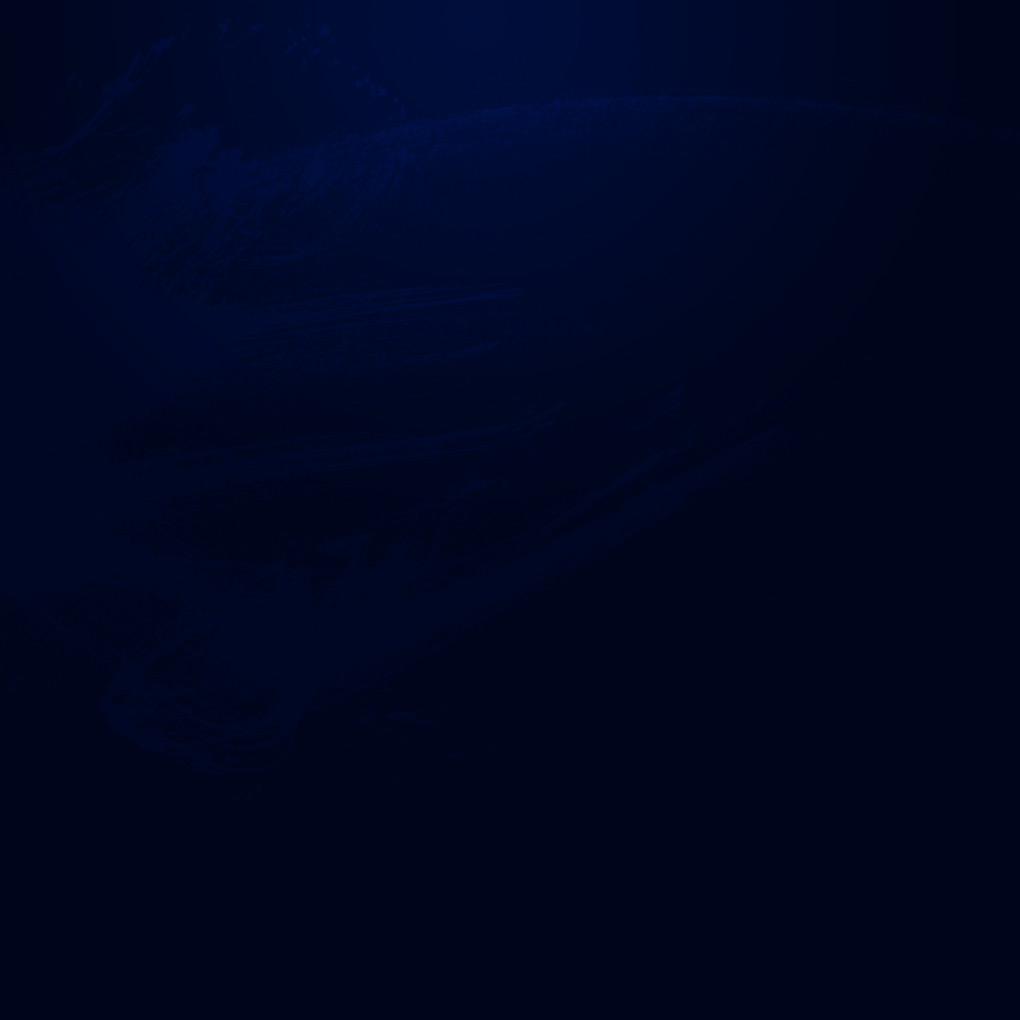
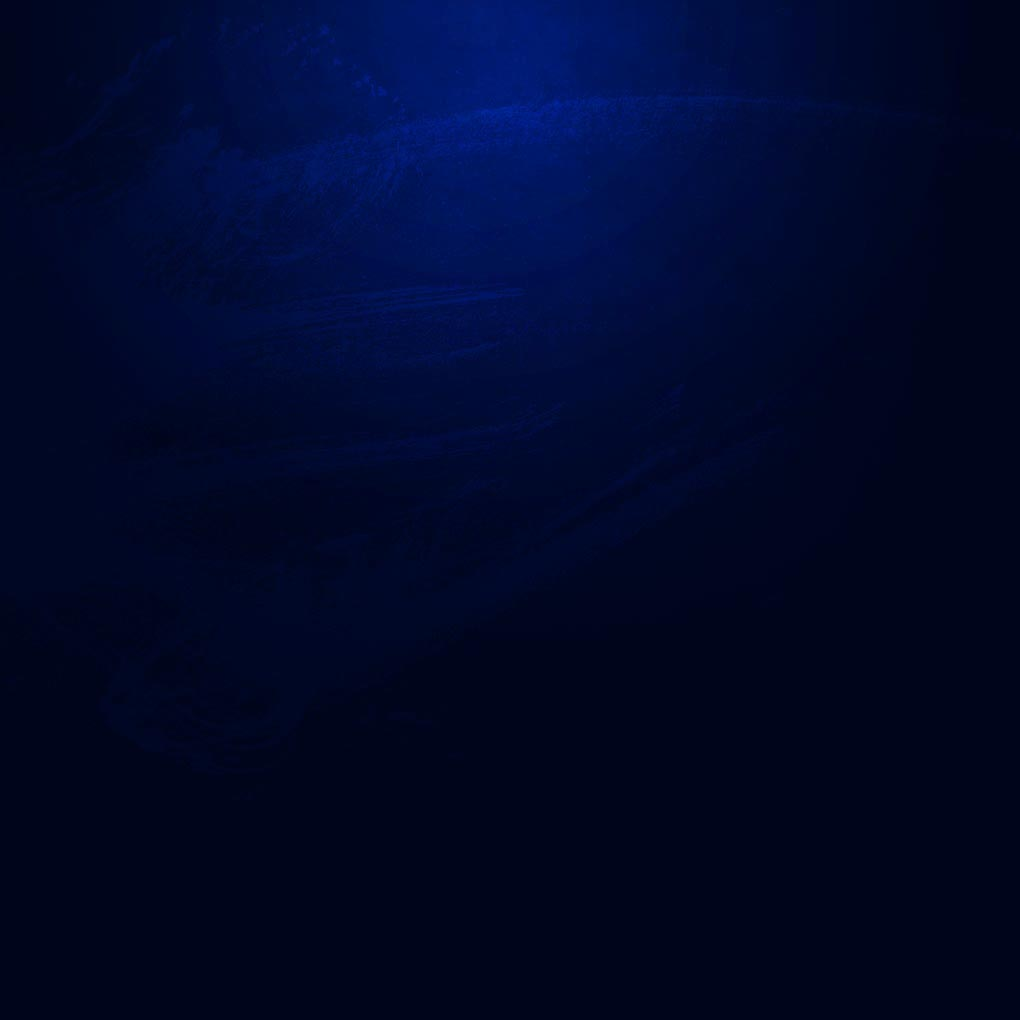
background change and comment remove

Changed region(s): [[0.2431, 0.0, 0.7598, 0.3647]]

diff --git a/templates/2010/css/css.css b/templates/2010/css/css.css
@@ -102,15 +102,17 @@ blockquote{
 
 #page{
 	background: #00051b url(bbg.png) repeat-x;
-	padding:49px 0;
+	padding:25px 0 49px 0;
 }
 
 #wrapper{
 	width:960px;
 	padding:0;
 	margin:0 auto;
-	background:#00051b url("bodybg.jpg") no-repeat;
-	border-radius:5px;	
+	background:#00051b url("bodybg.jpg") top center no-repeat;
+	border-radius:5px;
+	-moz-border-radius: 5px;
+	-webkit-border-radius: 5px;
 }
 
 .pagenav{
@@ -203,6 +205,8 @@ blockquote{
 	background-color: rgba(0, 13, 69, 0.35);
 	background:2px dotted #001;
 	border-radius:5px;
+	-moz-border-radius: 5px;
+	-webkit-border-radius: 5px;
 }
 
 #nav a{
@@ -210,7 +214,7 @@ blockquote{
 }
 
 #nav a:hover{
-	color:#000;
+	color:#fff;
 	border:0;
 }
 
@@ -233,6 +237,9 @@ div#content{
 	_margin:0 25px 0 0;
 	background-color: rgba(0, 13, 69, 0.35);
 	color: #999;
+	border-radius: 5px;
+	-moz-border-radius: 5px;
+	 -webkit-border-radius: 5px;
 }
 
 #content .post-text{

diff --git a/templates/2010/css/ipod.css b/templates/2010/css/ipod.css
@@ -1,0 +1,6 @@
+#wrapper #content{
+	float:none;
+	width:100%;
+	background:none;
+}
+

diff --git a/templates/2010/css/ipad.css b/templates/2010/css/ipad.css
@@ -1,0 +1,3 @@
+#page{
+	padding:0;
+}
